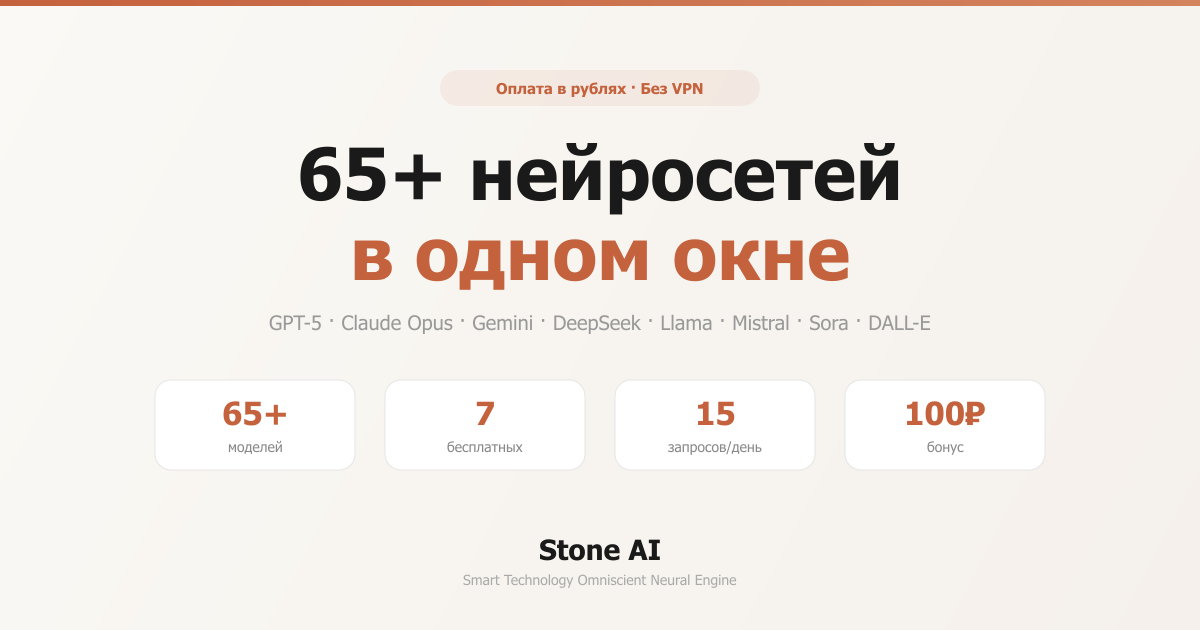
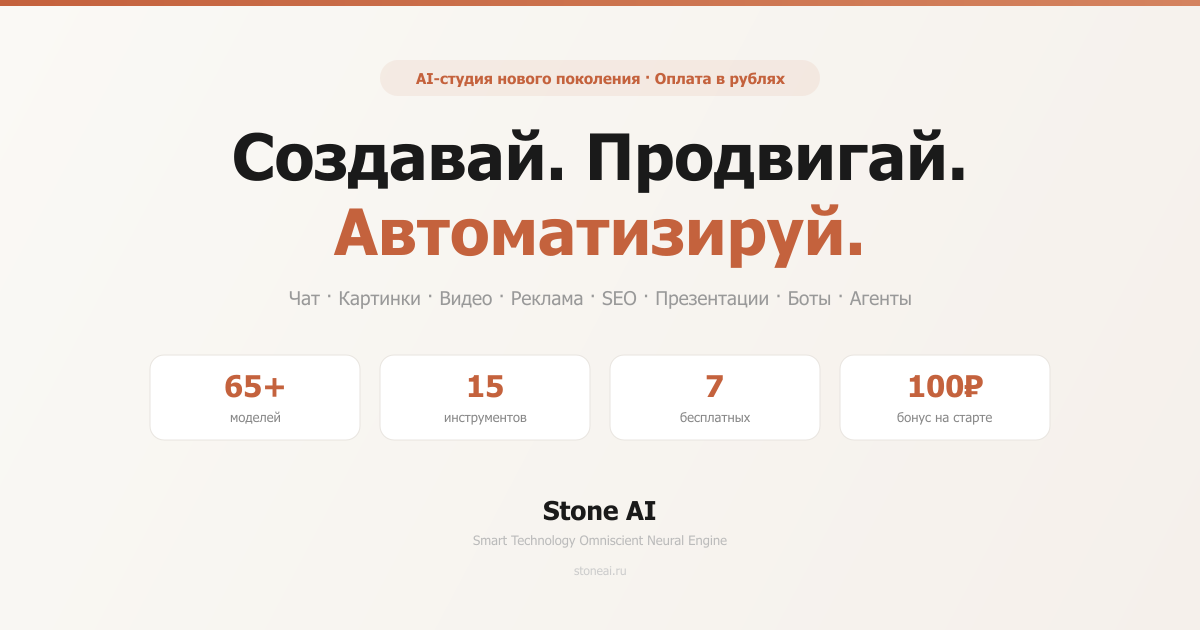
feat(branding): rebrand to "AI-студия нового поколения"
New positioning: "Создавай. Продвигай. Автоматизируй."
Updated in: layout meta/OG/twitter, Hero, Footer, CTA, manifest,
WebChat onboarding, OG image.

Old: "65+ нейросетей в одном окне"
New: "AI-студия нового поколения · 15 инструментов · 65+ моделей"

diff --git a/website/app/layout.tsx b/website/app/layout.tsx
@@ -29,11 +29,11 @@ export const viewport: Viewport = {
 export const metadata: Metadata = {
   metadataBase: new URL(SITE_URL),
   title: {
-    default: "65+ нейросетей в одном окне — текст, картинки, видео | Stone AI",
+    default: "AI-студия нового поколения — 65+ моделей, 15 инструментов | Stone AI",
     template: "%s | Stone AI",
   },
   description:
-    "GPT-5, Claude, Gemini и ещё 62 нейросети. Текст, картинки, видео, аудио, 3D и код. Оплата в рублях. STONE — Smart Technology Omniscient Neural Engine.",
+    "Stone AI — AI-студия нового поколения. 65+ моделей, 15 инструментов: чат, картинки, видео, реклама, SEO, презентации, боты и агенты. Создавай, продвигай, автоматизируй. Оплата в рублях.",
   keywords: [
     "AI чат",
     "ChatGPT альтернатива",
@@ -57,23 +57,23 @@ export const metadata: Metadata = {
     locale: "ru_RU",
     url: SITE_URL,
     siteName: "Stone AI",
-    title: "65+ нейросетей в одном окне — Stone AI",
+    title: "Stone AI — AI-студия нового поколения",
     description:
-      "STONE — Smart Technology Omniscient Neural Engine. 65+ нейросетей в одном окне. Текст, картинки, видео и код. Оплата в рублях.",
+      "65+ моделей, 15 инструментов: чат, картинки, видео, реклама, SEO, презентации, боты и агенты. Бесплатный старт + 100₽ на баланс.",
     images: [
       {
         url: OG_IMAGE,
         width: 1200,
         height: 630,
-        alt: "Stone AI — 65+ нейросетей в одном окне",
+        alt: "Stone AI — AI-студия нового поколения",
       },
     ],
   },
   twitter: {
     card: "summary_large_image",
-    title: "65+ нейросетей в одном окне — Stone AI",
+    title: "Stone AI — AI-студия нового поколения",
     description:
-      "STONE — Smart Technology Omniscient Neural Engine. 65+ нейросетей в одном окне. Текст, картинки, видео и код. Оплата в рублях.",
+      "65+ моделей, 15 инструментов: чат, картинки, видео, реклама, SEO, презентации, боты и агенты. Бесплатный старт + 100₽ на баланс.",
     images: [OG_IMAGE],
   },
   robots: {

diff --git a/website/components/Hero.tsx b/website/components/Hero.tsx
@@ -320,23 +320,23 @@ export default function Hero() {
       <div className="relative max-w-7xl mx-auto px-4 sm:px-6 lg:px-8">
         <div className="text-center">
           <div className="inline-block bg-accent/10 text-accent px-4 py-1.5 rounded-full text-sm font-semibold mb-6">
-            Попробуйте бесплатно
+            AI-студия нового поколения
           </div>
 
           <h1 className="text-4xl sm:text-5xl md:text-6xl lg:text-7xl font-extrabold leading-tight tracking-tight">
-            Одна подписка вместо десяти
+            Создавай. Продвигай.
             <br />
             <span className="bg-gradient-to-r from-accent to-teal bg-clip-text text-transparent">
-              Все нейросети уже здесь
+              Автоматизируй.
             </span>
           </h1>
 
           <img src="/mascots/stone-mascot-idle.png" alt="Stone AI" width="80" height="80" className="mx-auto mt-6 mb-2" />
 
           <p className="text-lg md:text-xl text-text/60 max-w-2xl mx-auto leading-relaxed">
-            GPT-5.1, Claude Sonnet 4, Gemini 2.5, Sora и ещё 65+ нейросетей.
+            15 инструментов · 65+ нейросетей · Бесплатный старт + 100₽ на баланс
             <br className="hidden sm:block" />
-            Тексты, картинки, видео, SEO-статьи, шаблоны — всё в одном окне.
+            Чат, картинки, видео, реклама, SEO, презентации, боты и агенты.
           </p>
 
           {/* CTA buttons */}

diff --git a/website/components/WebChat.tsx b/website/components/WebChat.tsx
@@ -2174,13 +2174,13 @@ export default function WebChat({ initialModel, initialCategory, embedded }: { i
                 15 БЕСПЛАТНЫХ ЗАПРОСОВ
               </div>
               <h2 className="text-2xl font-extrabold text-white mb-1.5">
-                65+ НЕЙРОСЕТЕЙ
+                AI-СТУДИЯ
               </h2>
               <h3 className="text-lg font-extrabold text-white/60 mb-3">
-                В ОДНОМ ЧАТЕ
+                НОВОГО ПОКОЛЕНИЯ
               </h3>
               <p className="text-white/35 text-xs mb-5">
-                GPT-5 · Claude Opus · Gemini · Sora 2 · DALL-E · Veo 3
+                65+ моделей · 15 инструментов · Чат, картинки, видео, реклама
               </p>
               <button onClick={() => { setShowOnboarding(false); localStorage.setItem("stone_chat_onboarded", "1"); }}
                 className="w-full bg-accent text-white py-3.5 rounded-xl font-bold text-sm hover:bg-accent/90 transition-all shadow-lg shadow-accent/25">

diff --git a/website/components/CtaSection.tsx b/website/components/CtaSection.tsx
@@ -40,9 +40,9 @@ export default function CtaSection() {
           Будущее AI — уже доступно. Начните сейчас
         </h2>
         <p className="text-white/50 mb-10 max-w-lg mx-auto text-lg">
-          65+ нейросетей в одном окне.
+          Создавай. Продвигай. Автоматизируй.
           <br />
-          Текст, картинки, видео, аудио, 3D и код.
+          15 инструментов · 65+ нейросетей · Бесплатный старт + 100₽
         </p>
         <a
           href="/dashboard/chat"

diff --git a/website/components/Footer.tsx b/website/components/Footer.tsx
@@ -38,7 +38,7 @@ export default function Footer() {
             </div>
             <p className="text-[9px] text-text/25 tracking-[0.12em] uppercase mb-2">Smart Technology Omniscient Neural Engine</p>
             <p className="text-text/50 text-sm leading-relaxed">
-              65+ нейросетей в одном окне.
+              AI-студия нового поколения.
             </p>
             <div className="mt-4 flex flex-col gap-2">
               <a
